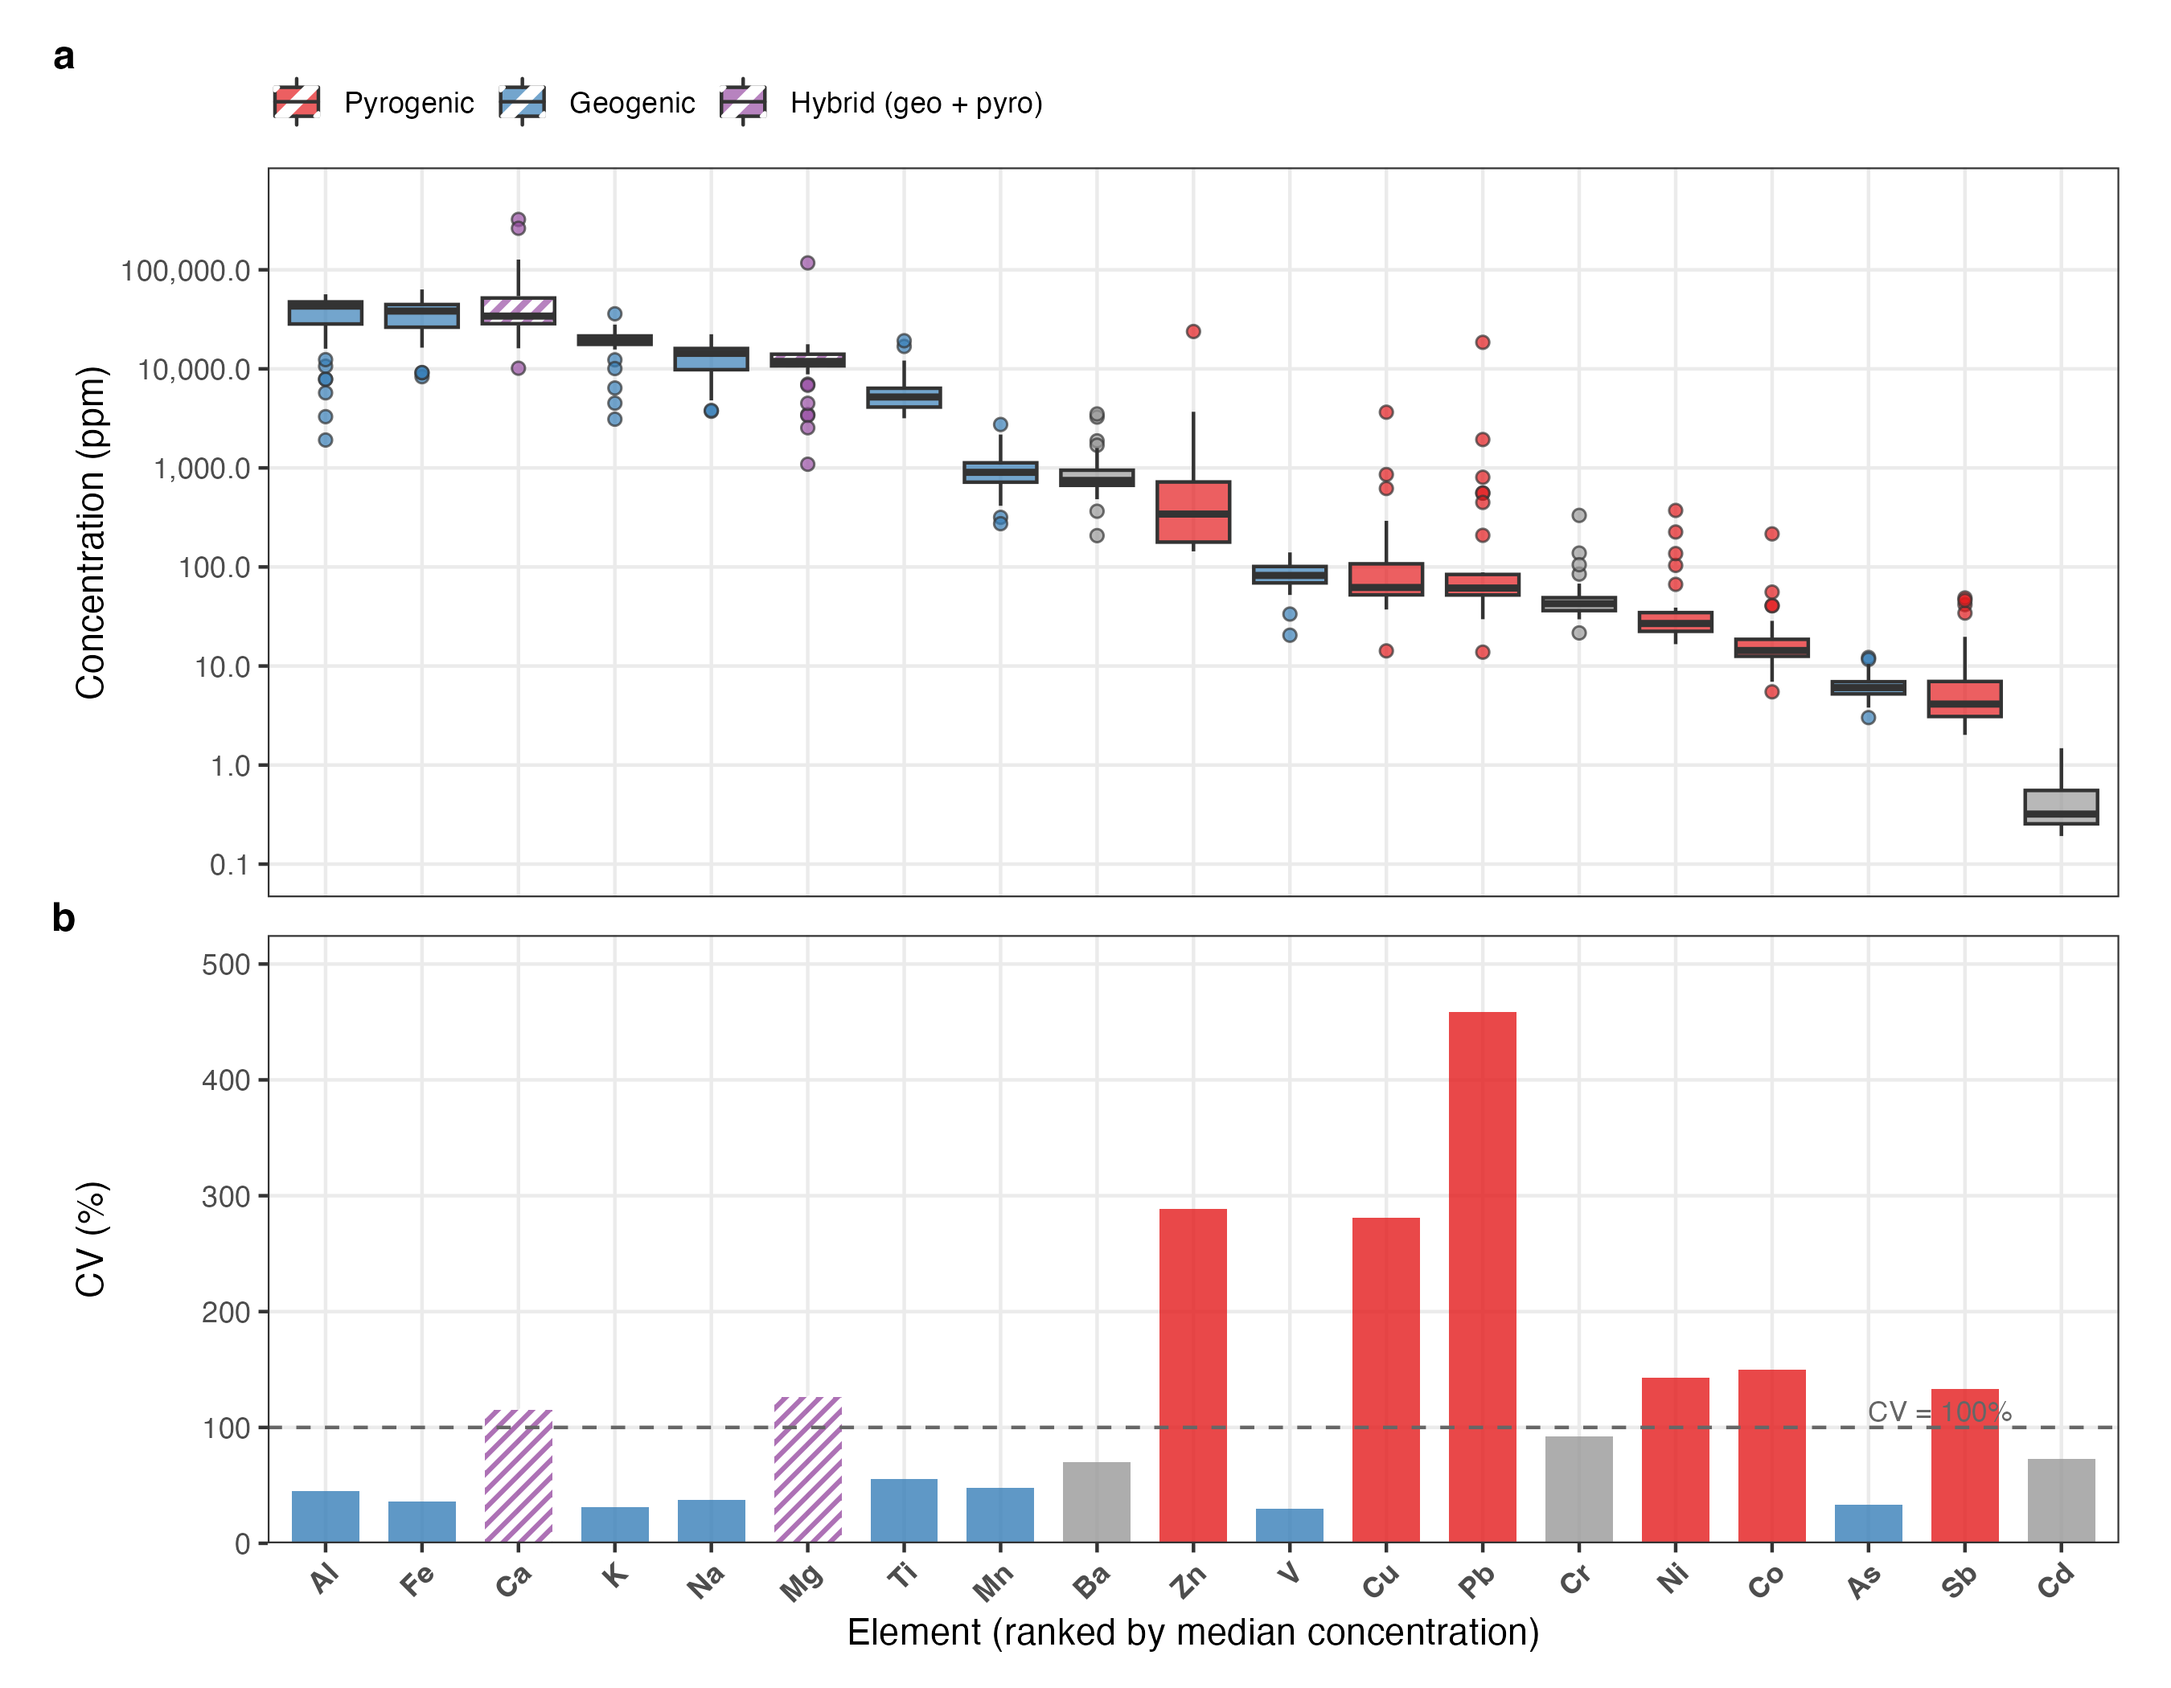
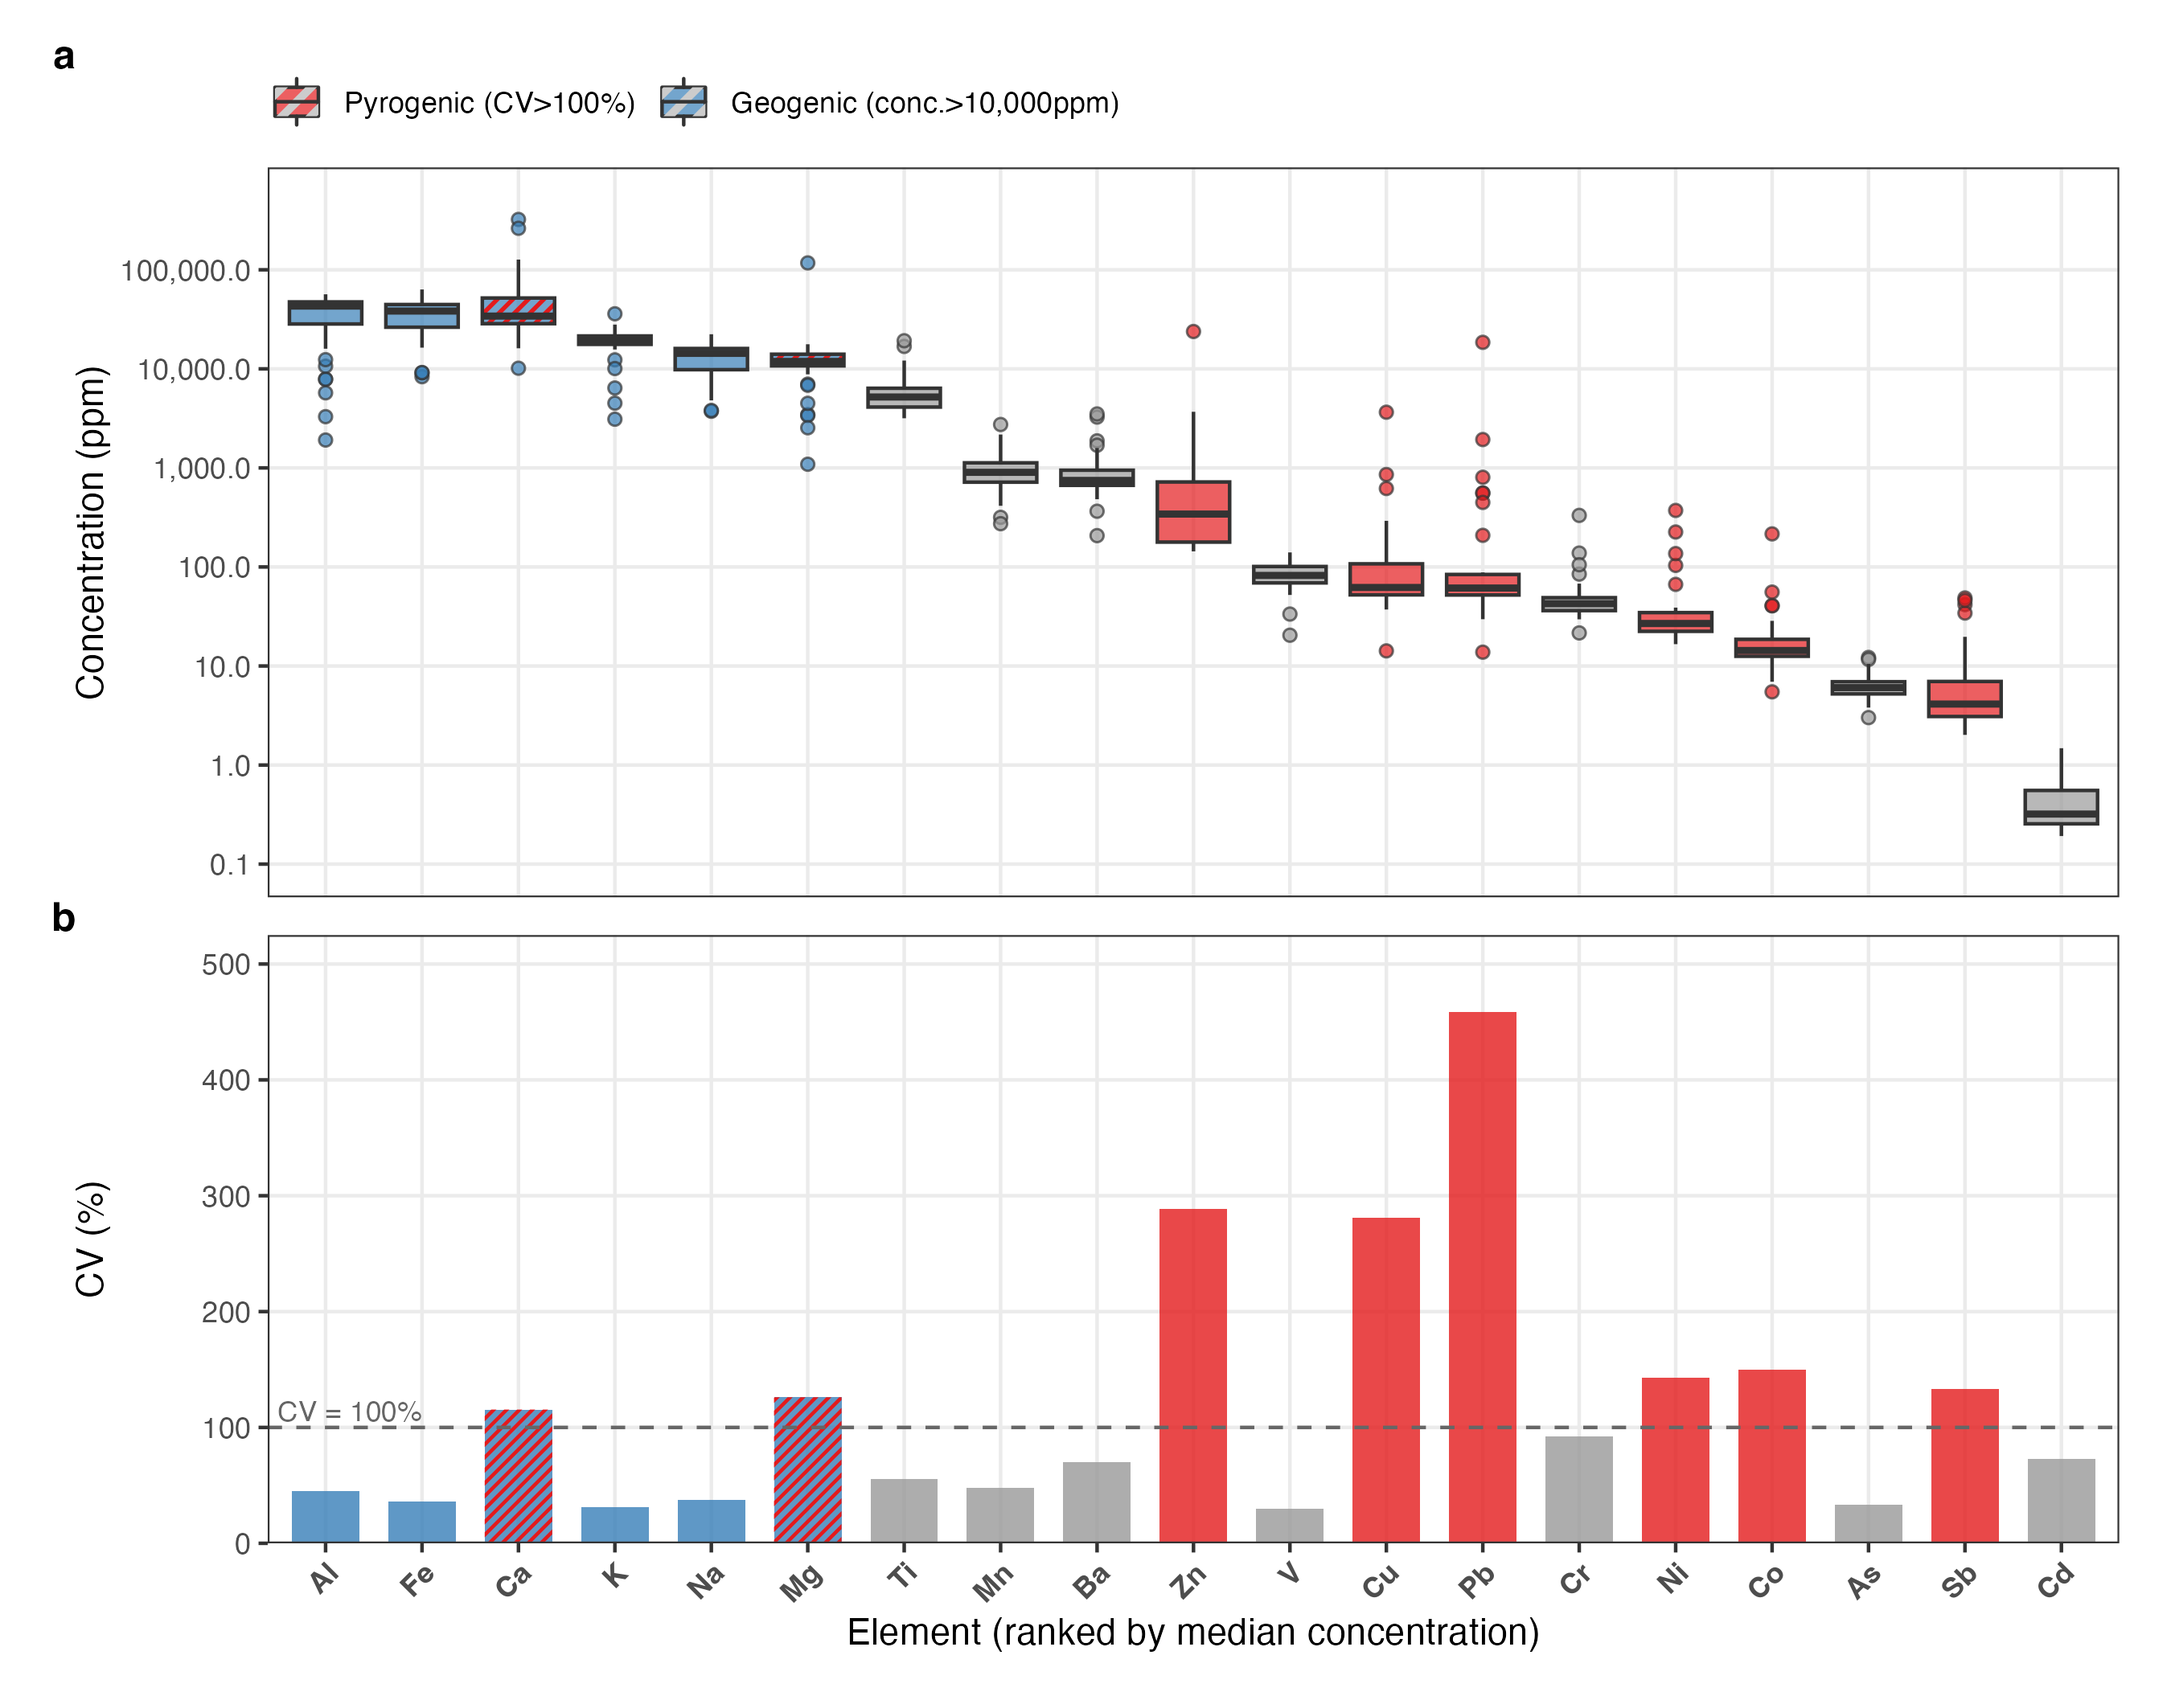
Update Fig 3 classification + fix BA label cropping in validation figure
Figure 3 (ICP-MS summary):
- Legend labels: Pyrogenic (CV>100%), Geogenic (conc.>10,000ppm)
- Remove Hybrid from legend (pattern speaks for itself)
- Move CV=100% label to left side for readability

Figure 5 (XRF validation):
- Fix Bland-Altman label cropping with expand_limits()

Manuscript caption updated for consistent classification framework.

🤖 Generated with [Claude Code](https://claude.com/claude-code)

diff --git a/Eaton-Fire-Ash/Manuscript/ACS_EST_manuscript.tex b/Eaton-Fire-Ash/Manuscript/ACS_EST_manuscript.tex
@@ -160,7 +160,7 @@ ICP-MS analysis quantified more than 50 elements across the 38 analyzed ash samp
 \begin{figure}[htbp]
 \centering
 \includegraphics[width=\columnwidth]{Fig-3-icpms.png}
-\caption{Element concentrations and spatial variability in 38 ash samples measured by ICP-MS. Elements are ranked by median concentration (highest to lowest). \textbf{(a)} Boxplots of element concentrations (log scale). \textbf{(b)} Coefficient of variation (CV) for each element. Blue = geogenic elements from regional geological substrate (Al, Fe, K, Na, Ti, Mn, V, As; CV $<$ 60\%); red = pyrogenic elements from built-environment combustion (Pb, Zn, Cu, Co, Ni, Sb; CV $>$ 100\%); purple with stripes = hybrid elements with both geogenic abundance and pyrogenic variability (Ca, Mg; CV $>$ 100\%); gray = other elements. Dashed line indicates CV = 100\%.}
+\caption{Element concentrations and spatial variability in 38 ash samples measured by ICP-MS. Elements are ranked by median concentration (highest to lowest). \textbf{(a)} Boxplots of element concentrations (log scale). \textbf{(b)} Coefficient of variation (CV) for each element. Blue = geogenic major elements with median $>$10,000~ppm (Al, Fe, K, Na); red = pyrogenic elements from built-environment combustion with CV $>$100\% (Pb, Zn, Cu, Co, Ni, Sb); blue with red stripes = hybrid elements combining geogenic abundance ($>$10,000~ppm) with pyrogenic variability (Ca, Mg); gray = other elements below thresholds (Ti, Mn, Ba, V, Cr, As, Cd). Dashed line indicates CV = 100\%.}
 \label{fig:icpms_summary}
 \end{figure}
 
